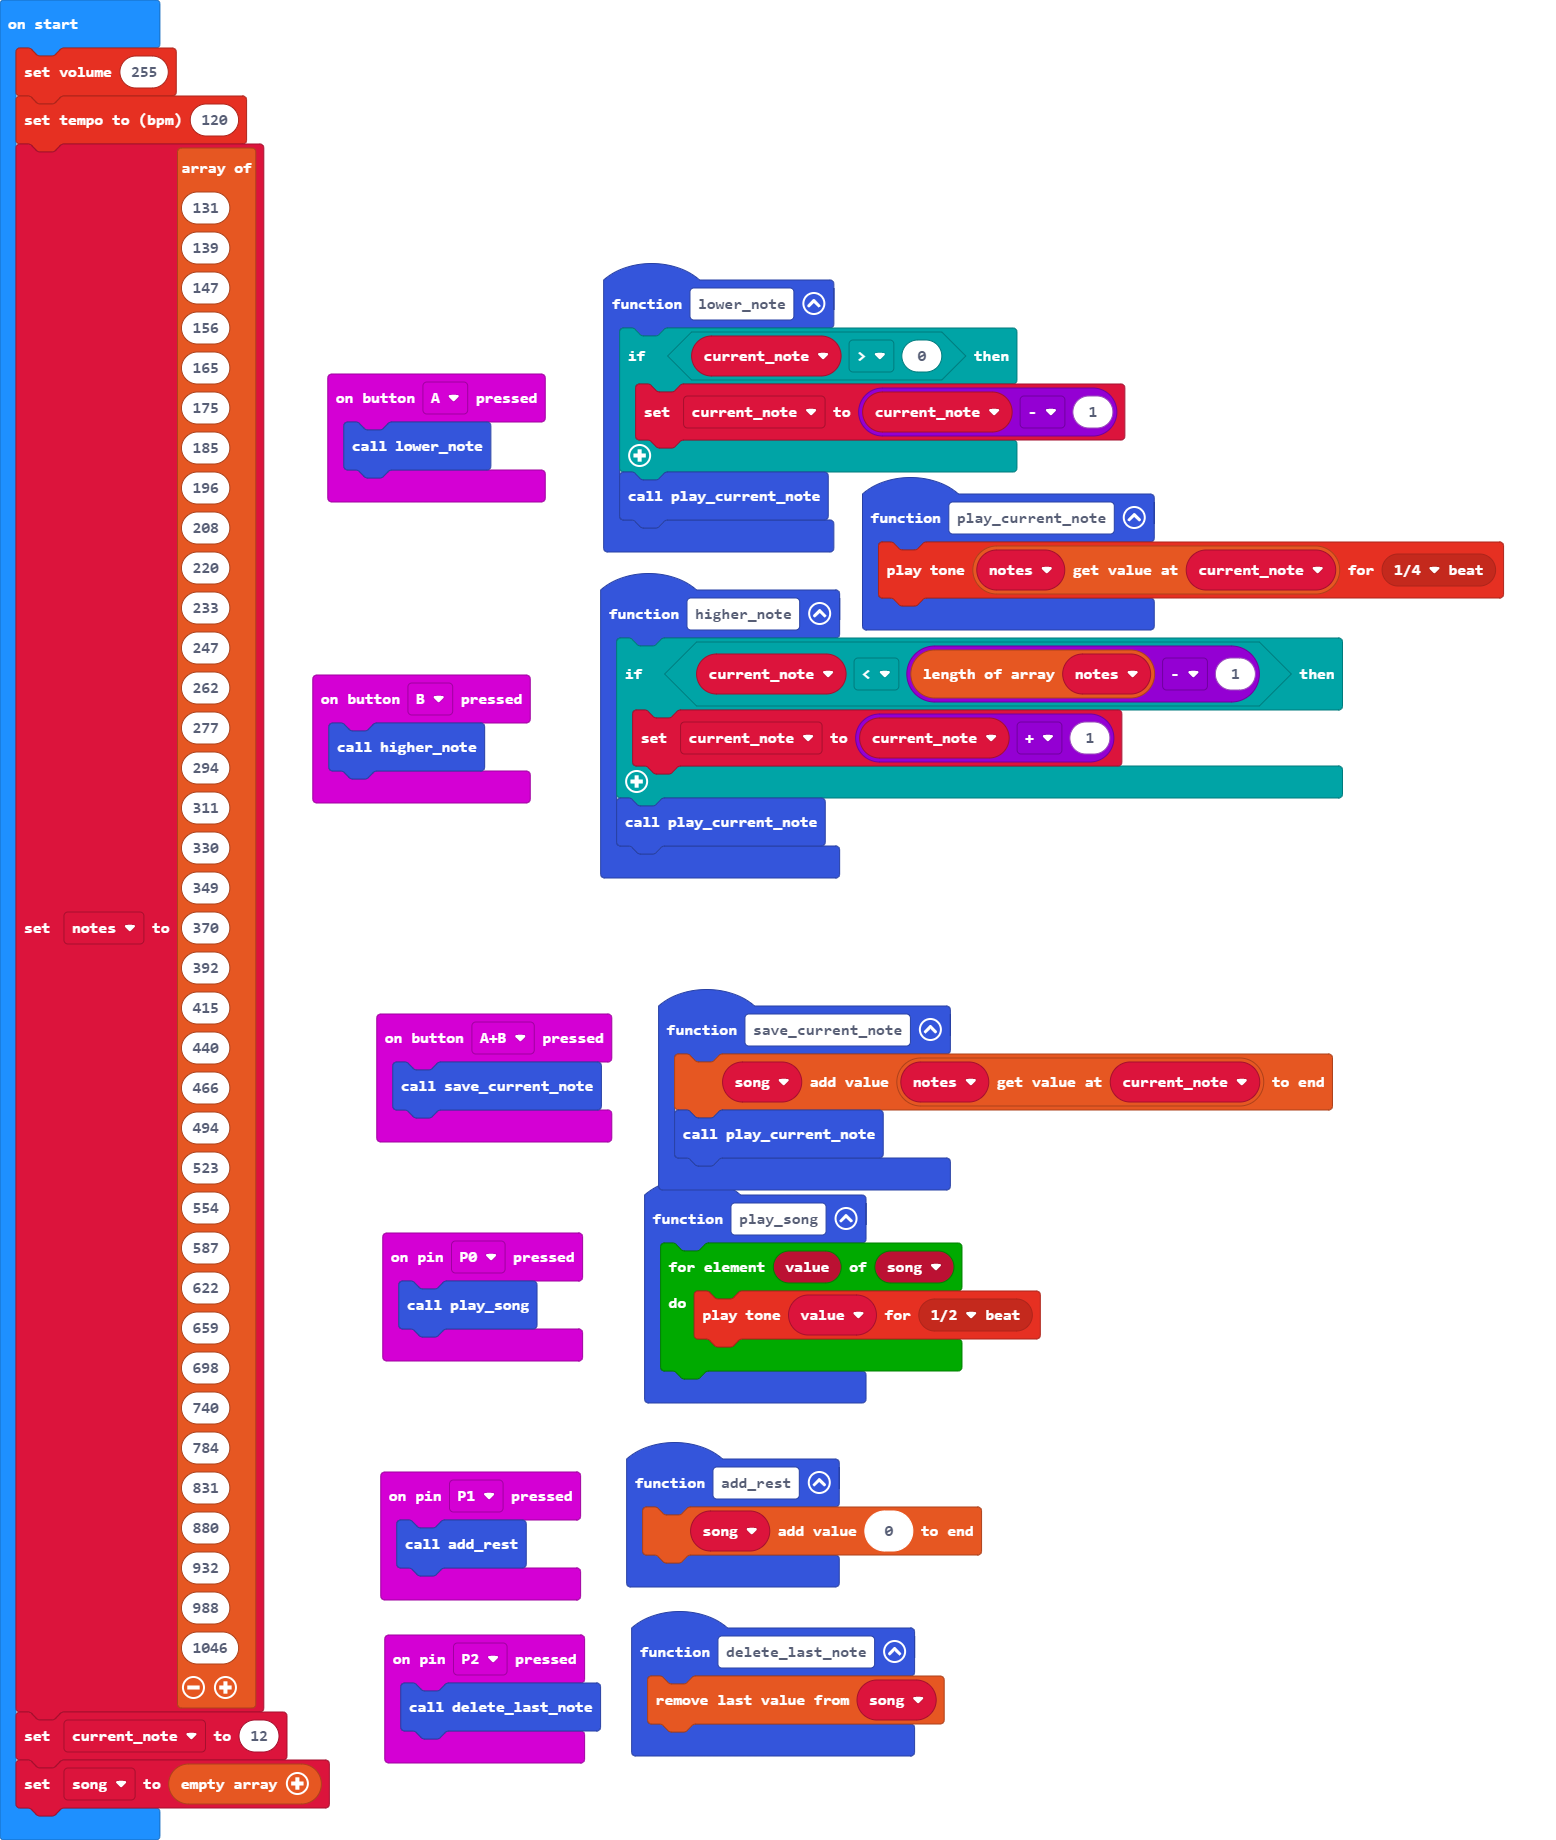
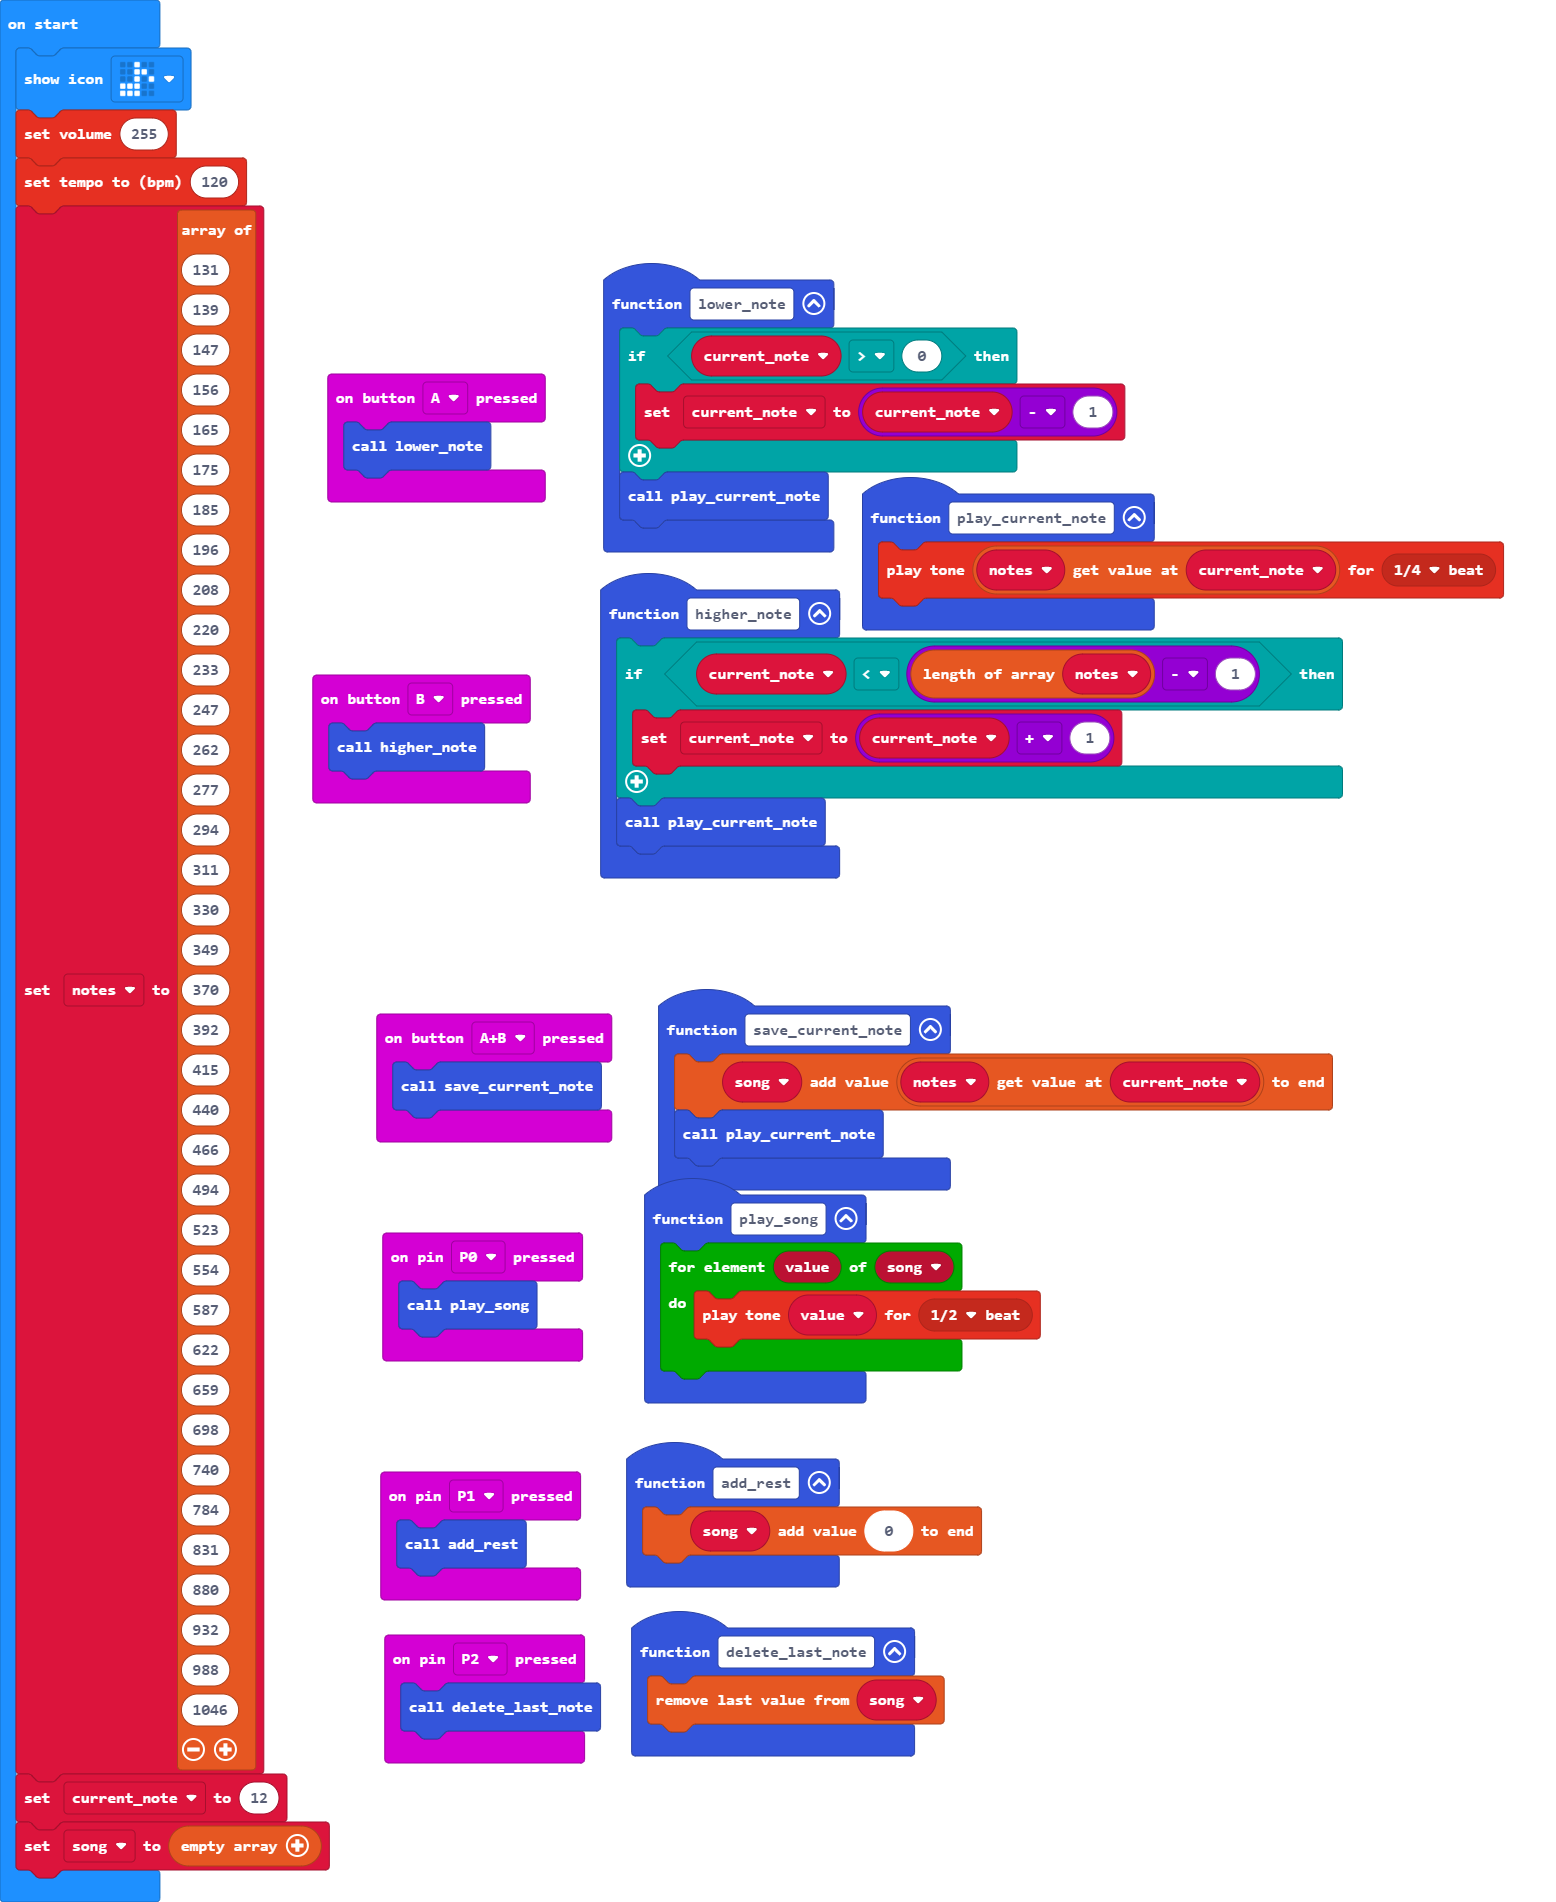
Update main.blocks, main.ts

diff --git a/main.ts b/main.ts
@@ -49,6 +49,7 @@ function higher_note () {
 let song: number[] = []
 let current_note = 0
 let notes: number[] = []
+basic.showIcon(IconNames.EigthNote)
 music.setVolume(255)
 music.setTempo(120)
 notes = [131, 139, 147, 156, 165, 175, 185, 196, 208, 220, 233, 247, 262, 277, 294, 311, 330, 349, 370, 392, 415, 440, 466, 494, 523, 554, 587, 622, 659, 698, 740, 784, 831, 880, 932, 988, 1046]
